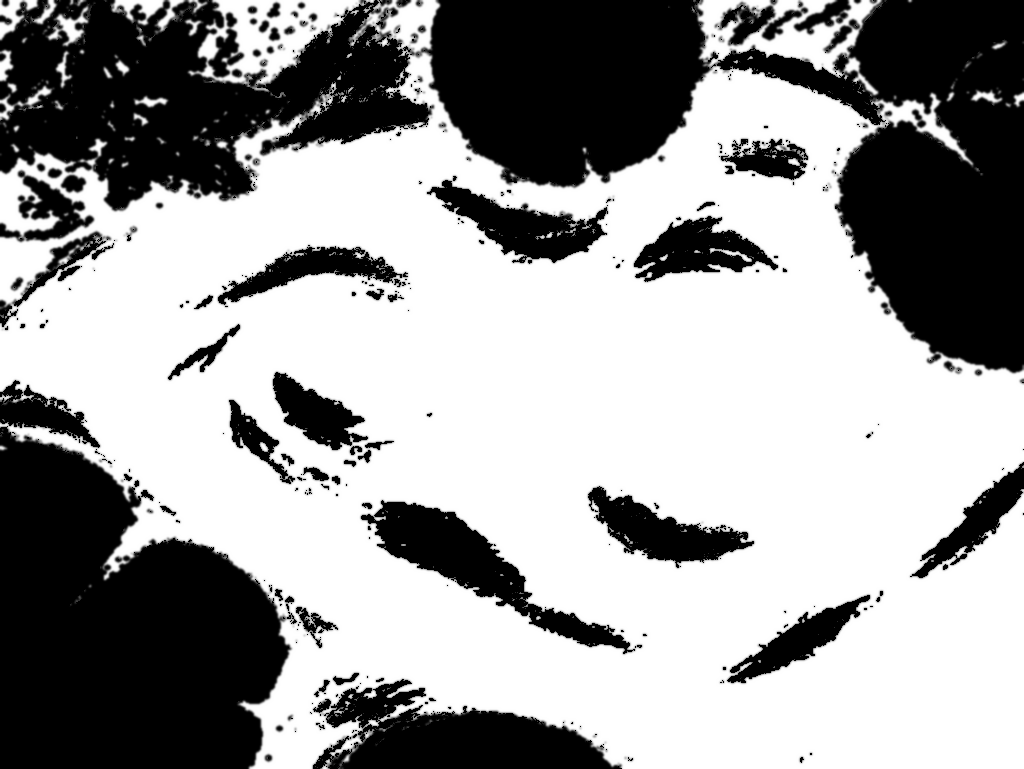
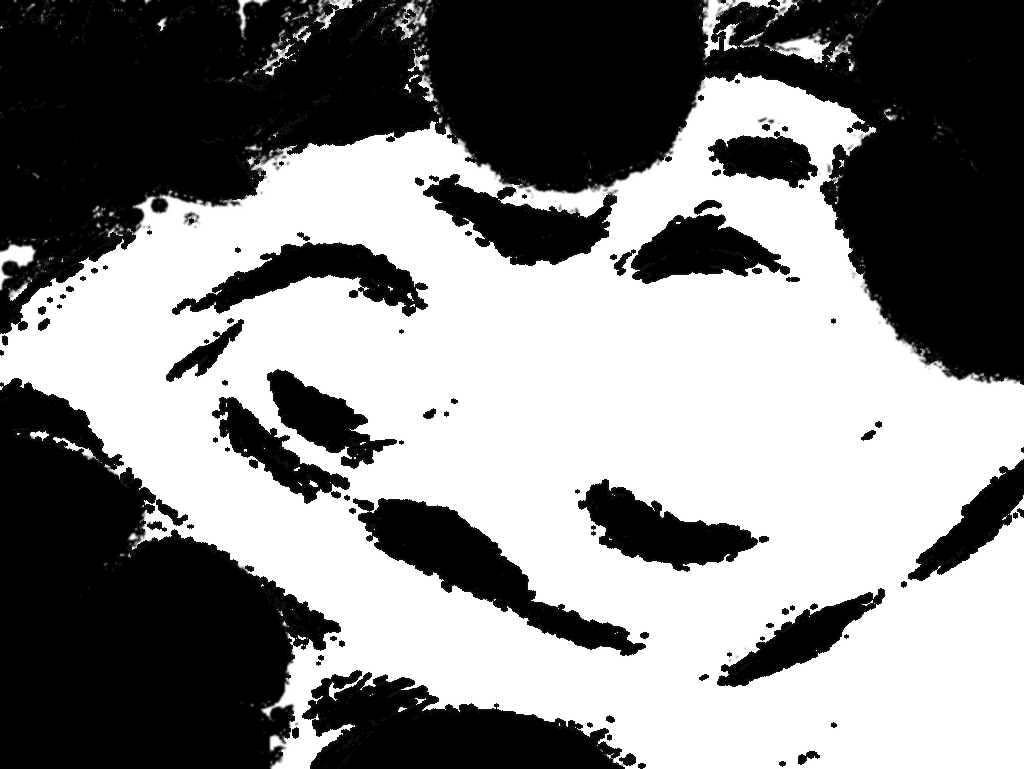
fix(koi-pond): zero water-mask on lotus and strengthen fish
Keep pink/yellow lotus and pad cores fully dry so ripples cannot move
them, and punch fish opacity/warmth so they sit on the water surface.

diff --git a/src/pieces/koi-pond/shaders.ts b/src/pieces/koi-pond/shaders.ts
@@ -169,11 +169,12 @@ void main() {
   vec2 fishUV = fishUV0 + sdir * nStroke * 1.2 / uRes.x;
   vec4 fish = texture2D(uFish, fishUV);
   float fa = fish.a * mask;
-  fa = max(fa, texture2D(uFish, fishUV + vec2(1.0, 0.0) / uRes).a * mask * 0.4);
+  fa = max(fa, texture2D(uFish, fishUV + vec2(1.0, 0.0) / uRes).a * mask * 0.35);
   float grain = paperGrain(uv);
-  vec3 fishCol = fish.rgb * mix(0.98, 1.05, grain) * vec3(1.08, 1.01, 0.95);
-  fa *= mix(0.96, 1.0, grain);
-  col = mix(col, fishCol, clamp(fa, 0.0, 1.0));
+  // keep bodies opaque and warm so they read as pastel ON the water, not under it
+  vec3 fishCol = fish.rgb * mix(1.0, 1.06, grain) * vec3(1.14, 1.04, 0.92);
+  fa = pow(clamp(fa, 0.0, 1.0), 0.85);
+  col = mix(col, fishCol, fa);
 
   // ochre pellets on water
   for (int i = 0; i < 5; i++) {
